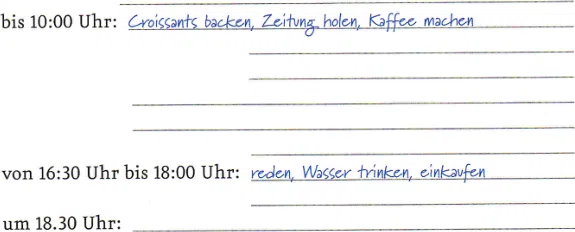
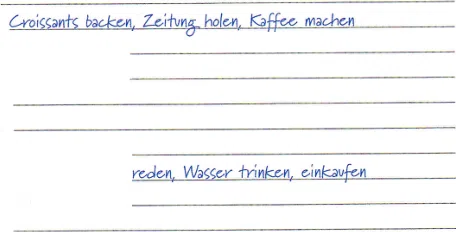
KB11 p70/72/76 fidelity: Fira/Droid faces, p70 rows real text, check placement

diff --git a/src/components/native-kb11.css b/src/components/native-kb11.css
@@ -47,3 +47,7 @@
 .nkb:is([data-native-page="87"],[data-native-page="88"],[data-native-page="89"],[data-native-page="90"],[data-native-page="91"]) .nkbLine:is(.nkbB,.nkbSans){font-family:KbFira,sans-serif}
 @font-face{font-family:KbFira;src:url('/assets/fonts/firasans-latin-500.ttf') format('truetype');font-weight:500;font-display:swap}
 .nkb:is([data-native-page="87"],[data-native-page="88"],[data-native-page="89"],[data-native-page="90"],[data-native-page="91"]) .nkbLine.nkbB{font-weight:500}
+
+.nkb:is([data-native-page="66"],[data-native-page="67"],[data-native-page="68"],[data-native-page="69"],[data-native-page="70"],[data-native-page="71"],[data-native-page="72"],[data-native-page="73"],[data-native-page="74"],[data-native-page="75"],[data-native-page="76"],[data-native-page="77"],[data-native-page="78"],[data-native-page="79"],[data-native-page="80"]) .nkbLine{font-family:KbDroid,serif}
+.nkb:is([data-native-page="66"],[data-native-page="67"],[data-native-page="68"],[data-native-page="69"],[data-native-page="70"],[data-native-page="71"],[data-native-page="72"],[data-native-page="73"],[data-native-page="74"],[data-native-page="75"],[data-native-page="76"],[data-native-page="77"],[data-native-page="78"],[data-native-page="79"],[data-native-page="80"]) .nkbLine:is(.nkbB,.nkbSans){font-family:KbFira,sans-serif}
+.nkb:is([data-native-page="66"],[data-native-page="67"],[data-native-page="68"],[data-native-page="69"],[data-native-page="70"],[data-native-page="71"],[data-native-page="72"],[data-native-page="73"],[data-native-page="74"],[data-native-page="75"],[data-native-page="76"],[data-native-page="77"],[data-native-page="78"],[data-native-page="79"],[data-native-page="80"]) .nkbLine.nkbB{font-weight:500}
